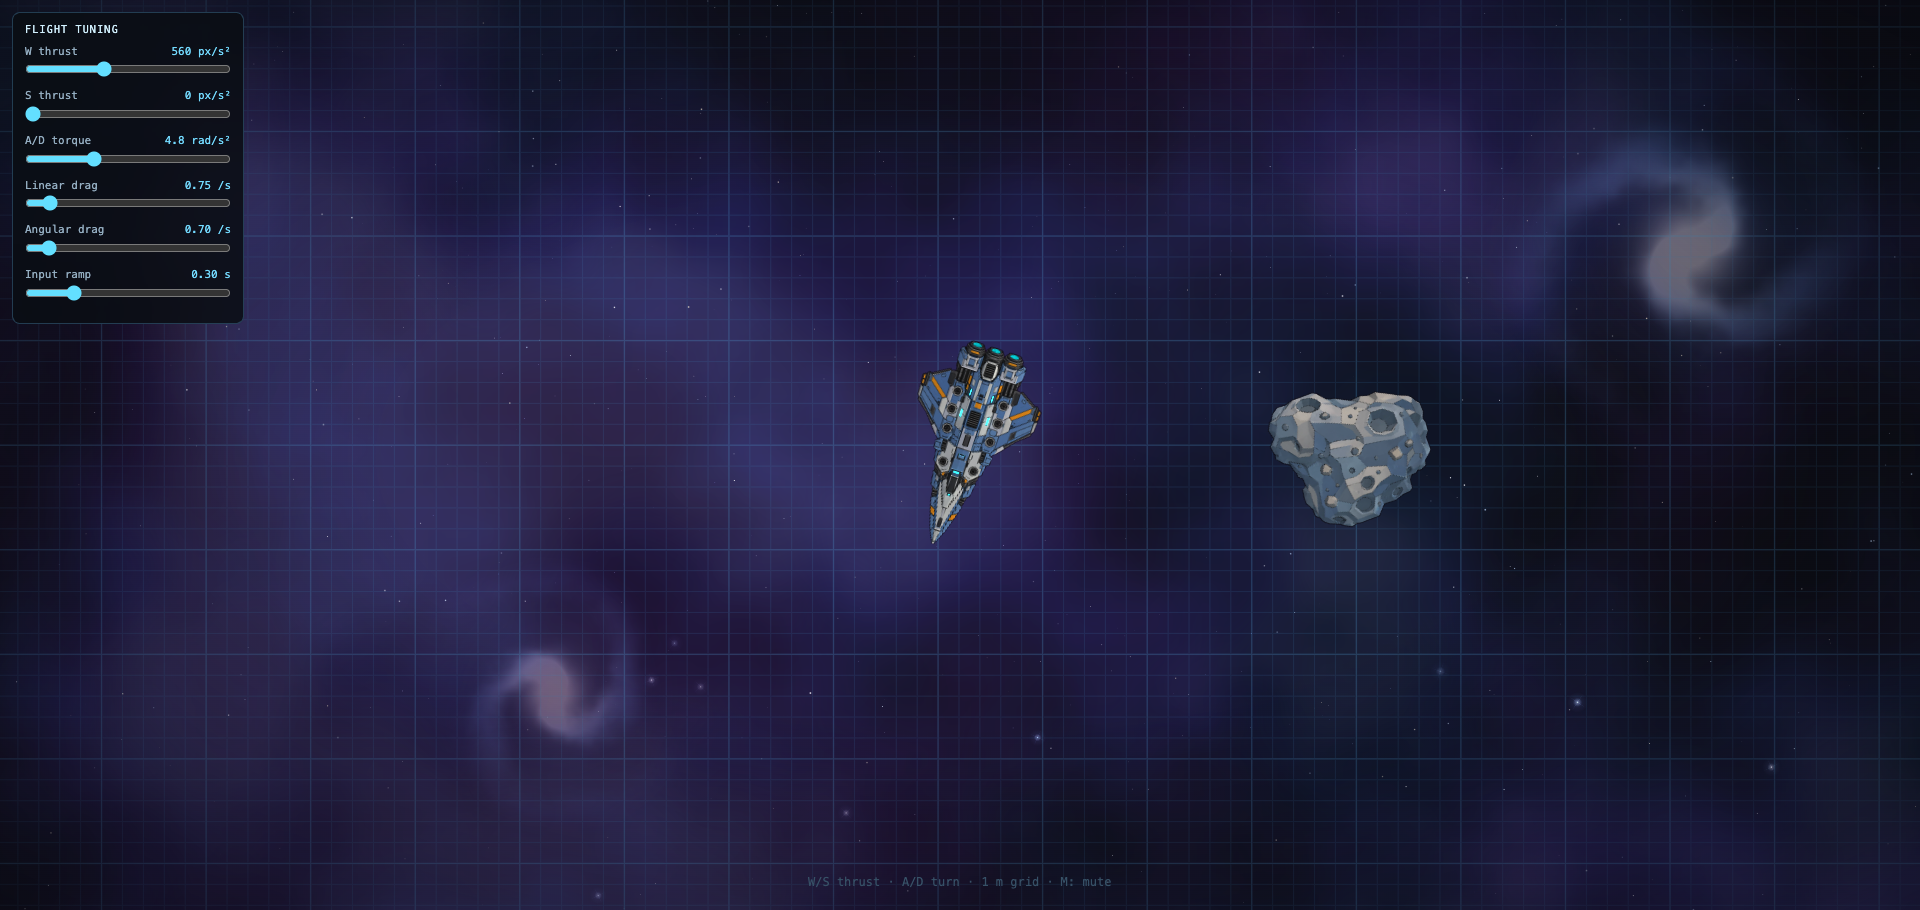
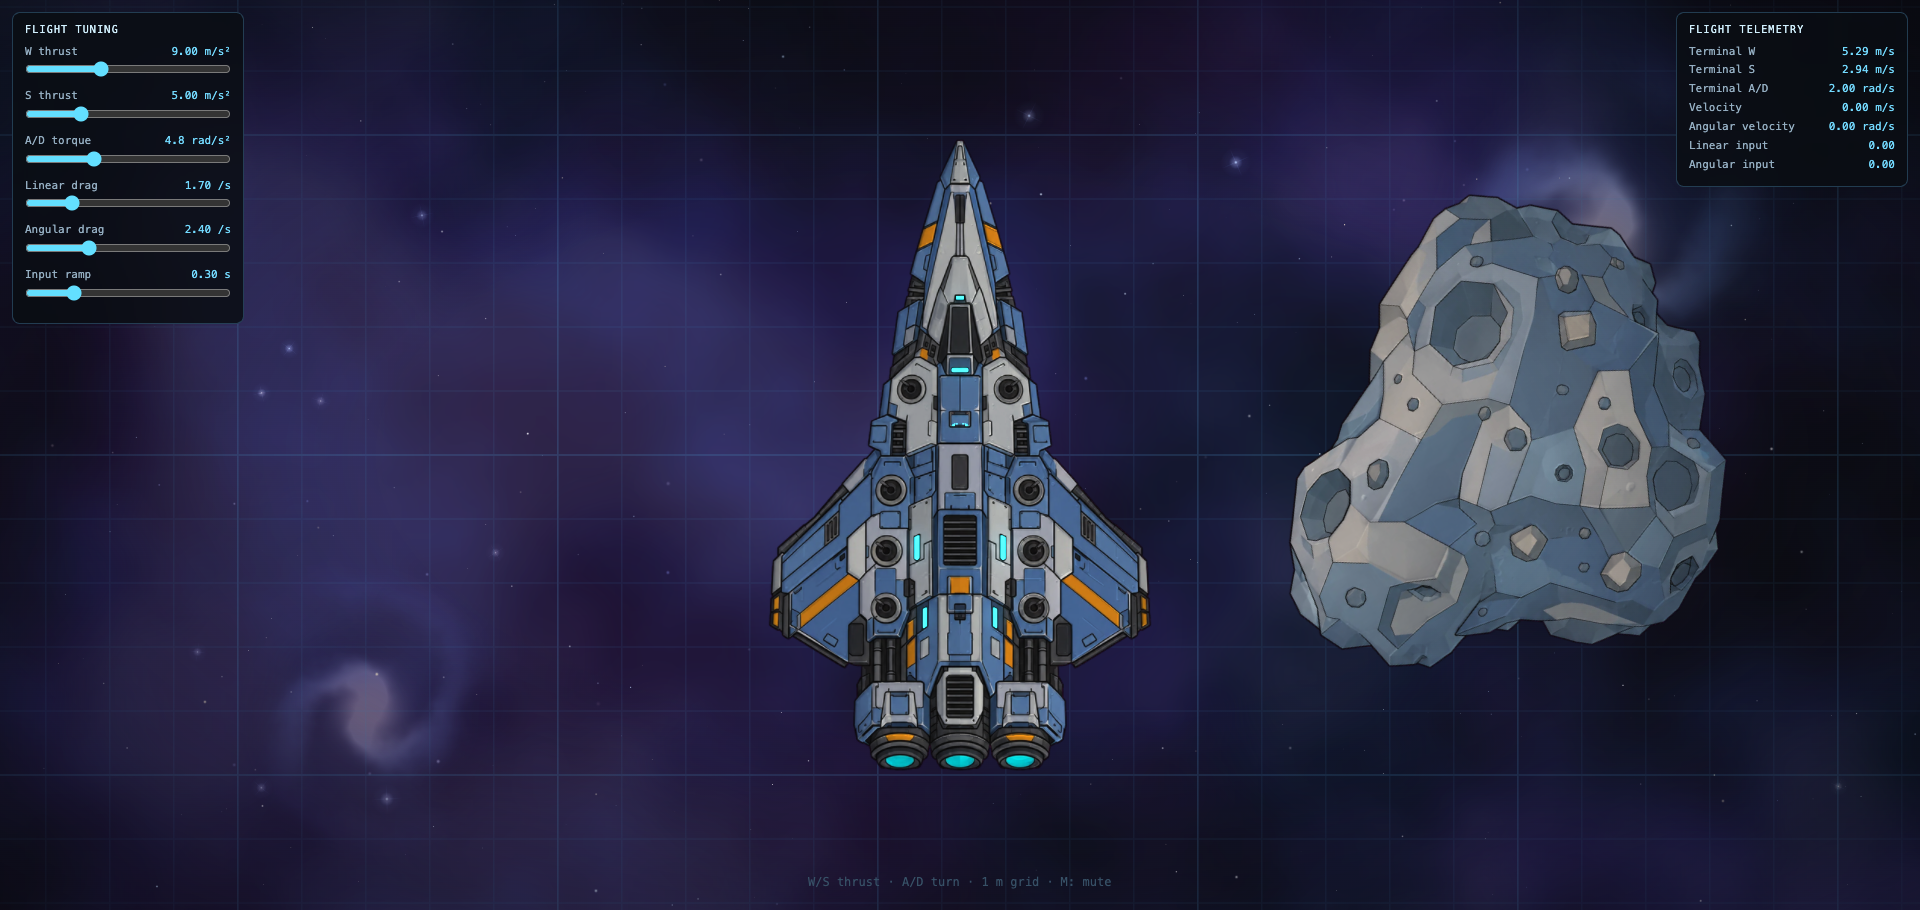
feat: add flight telemetry and metric physics units

diff --git a/src/app/lighting-scene.ts b/src/app/lighting-scene.ts
@@ -8,7 +8,9 @@ import type { LightingState, LitSprite } from './lit-sprite';
 import { createFlightState, stepFlight, DEFAULT_FLIGHT_TUNING } from './ship-flight';
 import type { FlightControls } from './ship-flight';
 import { createFlightTuner } from './flight-tuner';
+import { createFlightTelemetry } from './flight-telemetry';
 import { createGroundGrid } from './ground-grid';
+import { PIXELS_PER_METER } from './world-scale';
 
 export interface Scene {
   setMuted(muted: boolean): void;
@@ -101,10 +103,10 @@ export async function createScene(app: Application): Promise<Scene> {
     const asteroidScreenX = centerX + gap / 2 + (asteroidColor.width * asteroidScale) / 2;
 
     if (!shipPlaced) {
-      // Flight uses zoom-1 screen pixels relative to the viewport centre so the
-      // ship's heading and speed look the same in both axes.
-      flight.x = shipScreenX - width / 2;
-      flight.y = centerY - height / 2;
+      // Flight is in metres relative to the viewport centre; rendering converts
+      // metres to screen pixels with PIXELS_PER_METER.
+      flight.x = (shipScreenX - width / 2) / PIXELS_PER_METER;
+      flight.y = (centerY - height / 2) / PIXELS_PER_METER;
       shipPlaced = true;
     }
 
@@ -121,10 +123,13 @@ export async function createScene(app: Application): Promise<Scene> {
 
     ground.setView(dust.x, dust.y, dust.zoom, width, height);
 
+    const shipWorldX = flight.x * PIXELS_PER_METER;
+    const shipWorldY = flight.y * PIXELS_PER_METER;
+
     ship.mesh.scale.set(shipBaseScale * dust.zoom);
     ship.mesh.position.set(
-      (flight.x - dust.x * width) * dust.zoom + width / 2,
-      (flight.y - dust.y * height) * dust.zoom + height / 2,
+      (shipWorldX - dust.x * width) * dust.zoom + width / 2,
+      (shipWorldY - dust.y * height) * dust.zoom + height / 2,
     );
     ship.mesh.rotation = flight.rotation;
 
@@ -148,7 +153,11 @@ export async function createScene(app: Application): Promise<Scene> {
     asteroid.mesh.rotation -= deltaSeconds * 0.22;
 
     layout();
-    background.setFollowTarget(flight.x / app.screen.width, flight.y / app.screen.height);
+    telemetry.update();
+    background.setFollowTarget(
+      (flight.x * PIXELS_PER_METER) / app.screen.width,
+      (flight.y * PIXELS_PER_METER) / app.screen.height,
+    );
     updateTransforms();
     updateLighting();
   };
@@ -181,12 +190,20 @@ export async function createScene(app: Application): Promise<Scene> {
   const flightTuner = createFlightTuner(tuning);
   document.body.append(flightTuner.element);
 
+  const telemetry = createFlightTelemetry(flight, tuning);
+  document.body.append(telemetry.element);
+
   window.addEventListener('keydown', onKeyDown);
   window.addEventListener('keyup', onKeyUp);
   window.addEventListener('blur', onBlur);
   app.ticker.add(tick);
   layout();
-  background.setFollowTarget(flight.x / app.screen.width, flight.y / app.screen.height, true);
+  telemetry.update();
+  background.setFollowTarget(
+    (flight.x * PIXELS_PER_METER) / app.screen.width,
+    (flight.y * PIXELS_PER_METER) / app.screen.height,
+    true,
+  );
   updateTransforms();
   updateLighting();
 
@@ -202,6 +219,7 @@ export async function createScene(app: Application): Promise<Scene> {
       window.removeEventListener('keyup', onKeyUp);
       window.removeEventListener('blur', onBlur);
       flightTuner.destroy();
+      telemetry.destroy();
       ground.destroy();
       ship.mesh.destroy({ children: true });
       asteroid.mesh.destroy({ children: true });

diff --git a/src/app/flight-telemetry.ts b/src/app/flight-telemetry.ts
@@ -1,0 +1,93 @@
+import type { FlightState, FlightTuning } from './ship-flight';
+
+const PANEL_STYLE: Partial<CSSStyleDeclaration> = {
+  position: 'fixed',
+  top: '12px',
+  right: '12px',
+  zIndex: '10',
+  width: '232px',
+  padding: '10px 12px',
+  borderRadius: '8px',
+  border: '1px solid rgba(90, 160, 200, 0.35)',
+  background: 'rgba(5, 9, 18, 0.86)',
+  color: '#9fb7c9',
+  font: '11px/1.35 ui-monospace, SFMono-Regular, Menlo, monospace',
+  backdropFilter: 'blur(6px)',
+  userSelect: 'none',
+};
+
+export interface FlightTelemetry {
+  element: HTMLElement;
+  update(): void;
+  destroy(): void;
+}
+
+function clampZero(value: number): number {
+  return Math.abs(value) < 0.005 ? 0 : value;
+}
+
+function fixed(value: number, digits = 2): string {
+  return clampZero(value).toFixed(digits);
+}
+
+/** Read-only overlay showing the flight model's current limits and state. */
+export function createFlightTelemetry(flight: FlightState, tuning: FlightTuning): FlightTelemetry {
+  const root = document.createElement('div');
+  Object.assign(root.style, PANEL_STYLE);
+
+  const title = document.createElement('div');
+  title.textContent = 'FLIGHT TELEMETRY';
+  title.style.cssText = 'margin-bottom:8px;color:#d8f3ff;letter-spacing:0.12em;font-size:10px;';
+  root.append(title);
+
+  const values = new Map<string, HTMLElement>();
+  const addRow = (label: string): void => {
+    const row = document.createElement('div');
+    row.style.cssText = 'display:flex;justify-content:space-between;gap:8px;margin:4px 0;';
+
+    const name = document.createElement('span');
+    name.textContent = label;
+
+    const value = document.createElement('span');
+    value.textContent = '—';
+    value.style.cssText = 'color:#7fdfff;font-variant-numeric:tabular-nums;';
+
+    row.append(name, value);
+    root.append(row);
+    values.set(label, value);
+  };
+
+  addRow('Terminal W');
+  addRow('Terminal S');
+  addRow('Terminal A/D');
+  addRow('Velocity');
+  addRow('Angular velocity');
+  addRow('Linear input');
+  addRow('Angular input');
+
+  const set = (label: string, text: string): void => {
+    const value = values.get(label);
+    if (value) value.textContent = text;
+  };
+
+  const update = (): void => {
+    const linearDrag = Math.max(tuning.linearDrag, 0.0001);
+    const angularDrag = Math.max(tuning.angularDrag, 0.0001);
+
+    set('Terminal W', `${fixed(tuning.forwardAccel / linearDrag)} m/s`);
+    set('Terminal S', `${fixed(tuning.reverseAccel / linearDrag)} m/s`);
+    set('Terminal A/D', `${fixed(tuning.angularAccel / angularDrag)} rad/s`);
+    set('Velocity', `${fixed(Math.hypot(flight.vx, flight.vy))} m/s`);
+    set('Angular velocity', `${fixed(flight.angularVelocity)} rad/s`);
+    set('Linear input', fixed(flight.linearInput));
+    set('Angular input', fixed(flight.angularInput));
+  };
+
+  return {
+    element: root,
+    update,
+    destroy(): void {
+      root.remove();
+    },
+  };
+}

diff --git a/src/app/ship-flight.ts b/src/app/ship-flight.ts
@@ -1,4 +1,4 @@
-/** Ramped arcade flight: small forces, capped speeds, drag only while thrusting. */
+/** Ramped arcade flight in metres; thrust/drag set terminal speeds. */
 
 export interface FlightControls {
   forward: boolean;
@@ -17,8 +17,8 @@ export interface FlightTuning {
 }
 
 export const DEFAULT_FLIGHT_TUNING: FlightTuning = {
-  forwardAccel: 560,
-  reverseAccel: 300,
+  forwardAccel: 9,
+  reverseAccel: 5,
   angularAccel: 4.8,
   linearDrag: 1.7,
   angularDrag: 2.4,
@@ -26,10 +26,11 @@ export const DEFAULT_FLIGHT_TUNING: FlightTuning = {
 };
 
 export interface FlightState {
-  /** World position in screen pixels at zoom 1, relative to the viewport center. */
+  /** World position in metres at zoom 1, relative to the viewport center. */
   x: number;
   y: number;
   rotation: number;
+  /** Velocity in metres per second. */
   vx: number;
   vy: number;
   angularVelocity: number;

diff --git a/src/app/flight-tuner.ts b/src/app/flight-tuner.ts
@@ -11,8 +11,8 @@ interface SliderSpec {
 }
 
 const SLIDERS: SliderSpec[] = [
-  { key: 'forwardAccel', label: 'W thrust', min: 0, max: 1500, step: 10, digits: 0, unit: 'px/s²' },
-  { key: 'reverseAccel', label: 'S thrust', min: 0, max: 1200, step: 10, digits: 0, unit: 'px/s²' },
+  { key: 'forwardAccel', label: 'W thrust', min: 0, max: 25, step: 0.1, digits: 2, unit: 'm/s²' },
+  { key: 'reverseAccel', label: 'S thrust', min: 0, max: 20, step: 0.1, digits: 2, unit: 'm/s²' },
   {
     key: 'angularAccel',
     label: 'A/D torque',

diff --git a/src/app/ground-grid.ts b/src/app/ground-grid.ts
@@ -1,7 +1,5 @@
 import { Mesh, MeshGeometry, Shader, UniformGroup } from 'pixi.js';
-
-/** World scale: at zoom 1, one metre is 64 screen pixels. */
-export const PIXELS_PER_METER = 64;
+import { PIXELS_PER_METER } from './world-scale';
 
 /** 1 m minor cells, 5 m major cells. */
 const MINOR_CELL = PIXELS_PER_METER;

diff --git a/src/app/world-scale.ts b/src/app/world-scale.ts
@@ -1,0 +1,2 @@
+/** World scale: at zoom 1, one metre is 64 screen pixels. */
+export const PIXELS_PER_METER = 64;

diff --git a/AGENTS.md b/AGENTS.md
@@ -49,10 +49,12 @@ behaviour, also run `pnpm browser:inspect` and check the screenshot.
 - `src/app/create-app.ts` — creates and initialises the PixiJS `Application`.
 - `src/app/lighting-scene.ts` — the only scene: ship + asteroid layout, lighting state, WASD
   input. Places both objects with `Background.getDustTransform()` on the near dust layer.
-- `src/app/ship-flight.ts` — pure ramped arcade flight model (0.3 s input ramp, thrust, drag;
-  both axes damp while any input is active; terminal speed emerges from thrust/drag).
-  Unit-tested in `tests/ship-flight.test.ts`.
+- `src/app/ship-flight.ts` — pure ramped arcade flight model in metres (0.3 s input ramp,
+  thrust, drag; both axes damp while any input is active; terminal speed emerges from
+  thrust/drag). Unit-tested in `tests/ship-flight.test.ts`.
 - `src/app/flight-tuner.ts` — live DOM slider overlay that mutates `FlightTuning`; dev-facing.
+- `src/app/flight-telemetry.ts` — read-only DOM overlay for terminal/current/ramped state.
+- `src/app/world-scale.ts` — `PIXELS_PER_METER = 64`; all flight physics is in metres.
 - `src/app/ground-grid.ts` — screen-space 1 m × 1 m grid fixed to the near dust layer
   (64 world px per metre; major lines every 5 m).
 - `src/app/lit-sprite.ts` — custom normal-map Mesh shader (directional light, emissive/glow).
@@ -105,6 +107,8 @@ behaviour, also run `pnpm browser:inspect` and check the screenshot.
 - **Background textures are baked once.** Nebula/galaxy/glow textures are generated at startup
   into `CanvasSource`s and composed with batched sprites/TilingSprites. Avoid per-frame
   full-screen shaders or filters unless profiling justifies them.
+- **Flight physics is metric.** Keep velocities/accelerations/positions in metres; convert to
+  screen pixels only at render time with `PIXELS_PER_METER`. Grid/telemetry display metres.
 - **Zoom is depth-weighted.** Far stars/nebulas stay at a fixed scale; mid/near stars respond
   partially; near dust takes the full pan + zoom. Zoom is clamped to `0.02`–`1` (1× is the
   default and maximum zoom-in) and exposed as

diff --git a/README.md b/README.md
@@ -55,7 +55,9 @@ src/
   app/lighting-scene.ts   Ship + asteroid lighting demo (keep small)
   app/ship-flight.ts      Pure ramped WASD flight model (tested)
   app/flight-tuner.ts     Live overlay sliders for flight tuning
-  app/ground-grid.ts      Screen-space grid fixed to the near dust layer
+  app/flight-telemetry.ts Read-only terminal/velocity/input telemetry overlay
+  app/ground-grid.ts      Screen-space 1 m grid fixed to the near dust layer
+  app/world-scale.ts      Metres ↔ pixels conversion (64 px per metre)
   app/lit-sprite.ts       Custom normal-map Mesh shader (directional + emissive)
   app/background.ts       Layered procedural background (nebulas, galaxies, stars)
   app/background-textures.ts  One-time procedural canvas textures (nebula/galaxy/star/flare)
@@ -87,7 +89,8 @@ docs/                     Architecture decisions, reference art and agent workfl
 - A subtle cyan **ground grid** is fixed to that layer: minor cells are **1 m × 1 m** (64 world
   px per metre), major lines every 5 m. Ship movement and speed read against it.
 - The top-left **FLIGHT TUNING** panel has live sliders for thrust, torque, linear/angular drag
-  and input ramp.
+  and input ramp. The top-right **FLIGHT TELEMETRY** panel shows terminal W/S/A-D speeds,
+  current velocity, angular velocity, and ramped inputs (all linear units in metres).
 - **Drag the canvas** to look around (the follow cam eases back to the ship); **scroll / pinch**
   zooms out from the default 1× (`0.02×–1×`, 50× max zoom-out). **Double-click** resets zoom.
 - **Click** for the placeholder sound; **M** mutes/unmutes.
